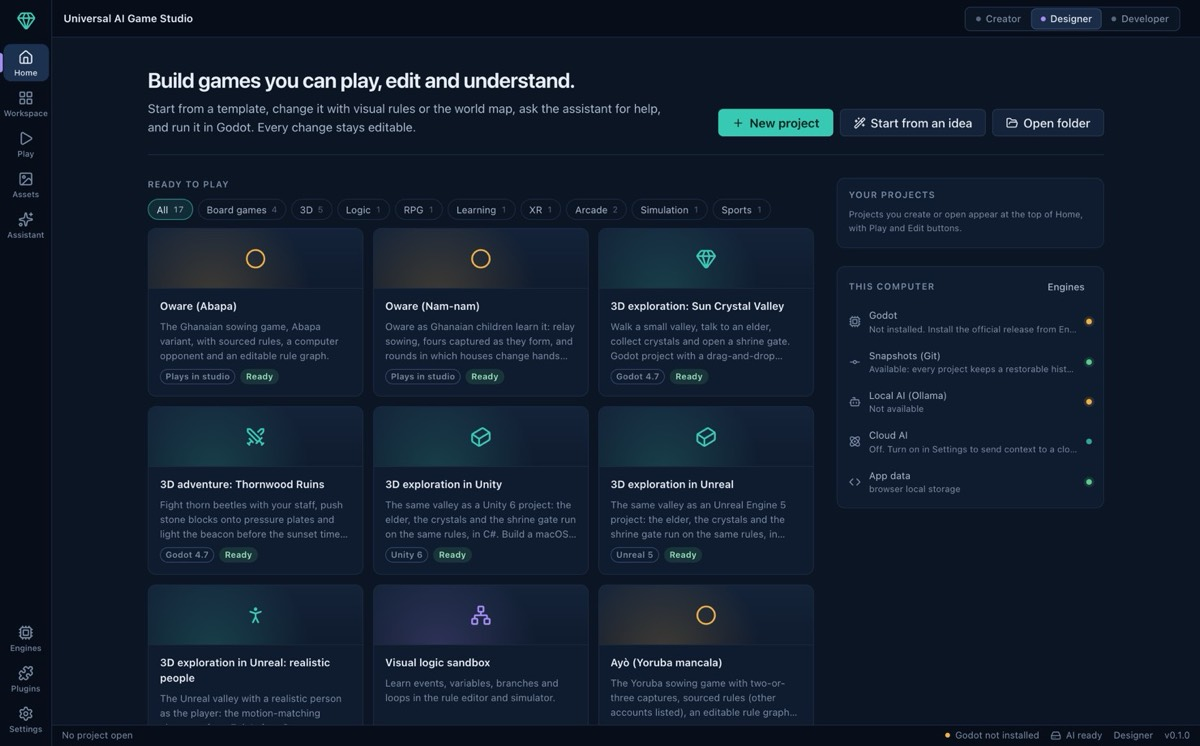
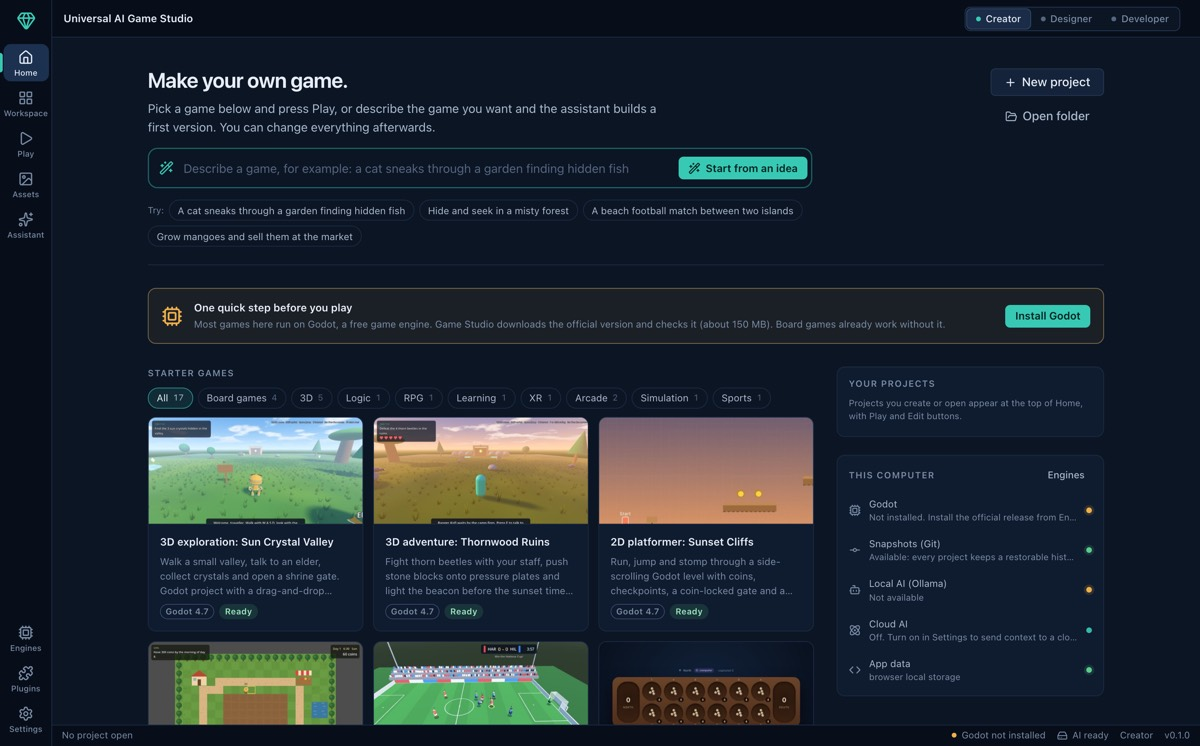
Friendlier first run: idea box, picture cards, setup step, first steps card
- Home: "Make your own game." with an idea box and example ideas that open
  Start from an idea already filled in; starter games show a picture of the
  game and lead with the 3D, platformer, farm and football games; Unity,
  Unreal and C++ templates are listed apart; a setup card offers Install Godot
  when it is missing. Recent projects show their game's picture.
- New users start in Creator mode.
- Workspace: a First steps card (Play now, how to change something, the
  Assistant) until Got it; the outline hides add-ons' own documents and calls
  the project's README "About this game".
- UI tests cover the first run and the first steps card; tests that use the
  Designer's simulator switch to Designer.
- User guide: the new Home and first steps.

diff --git a/apps/desktop/src/views/home/HomeView.tsx b/apps/desktop/src/views/home/HomeView.tsx
@@ -5,6 +5,13 @@ import { useApp } from "../../state/app";
 import { useProject } from "../../state/project";
 import { godotInstall, useEnv } from "../../state/env";
 import { ENGINE_LABEL } from "./labels";
+import pictureExploration from "../../assets/templates/exploration-3d.jpg";
+import pictureAdventure from "../../assets/templates/adventure-3d.jpg";
+import picturePlatformer from "../../assets/templates/platformer-2d.jpg";
+import pictureFarm from "../../assets/templates/farm-sim.jpg";
+import pictureFootball from "../../assets/templates/football.jpg";
+import pictureUnrealRealistic from "../../assets/templates/exploration-unreal-realistic.jpg";
+import pictureOware from "../../assets/templates/oware.jpg";
 import { Button, IconButton, formatWhen } from "../../components/ui";
 import { AtomIcon, BirdIcon, CloseIcon, CodeIcon, CubeIcon, DiceIcon, EditIcon, EnginesIcon, GameIcon, GemIcon, GraphIcon, LessonIcon, OpenIcon, PlayIcon, PlusIcon, SwordsIcon, XrIcon, CircleIcon, CommitIcon, BotIcon, WandIcon, TrophyIcon, SproutIcon, PersonIcon } from "../../components/icons";
 
@@ -31,6 +38,27 @@ const TEMPLATE_ICON: Partial<Record<string, ReactNode>> = {
   "creature-collection": <BirdIcon />,
 };
 const iconFor = (id: string, category: Category): ReactNode => TEMPLATE_ICON[id] ?? CATEGORY_ICON[category];
+/** Pictures of the games themselves (assets/templates), so a card shows what you will play. */
+const PICTURE: Partial<Record<string, string>> = {
+  "exploration-3d": pictureExploration,
+  "adventure-3d": pictureAdventure,
+  "platformer-2d": picturePlatformer,
+  "farm-sim": pictureFarm,
+  football: pictureFootball,
+  "exploration-unreal-realistic": pictureUnrealRealistic,
+  "oware-abapa": pictureOware,
+  "oware-namnam": pictureOware,
+  ayo: pictureOware,
+};
+/** Engines a beginner needs nothing extra for: these are the starter games. Unity and Unreal templates are listed apart. */
+const EXPERT_ENGINES = new Set<TemplateInfo["engine"]>(["unity", "unreal", "cpp-sfml"]);
+/** Ideas to try, filled into the idea box with one click. */
+const IDEA_EXAMPLES = [
+  "A cat sneaks through a garden finding hidden fish",
+  "Hide and seek in a misty forest",
+  "A beach football match between two islands",
+  "Grow mangoes and sell them at the market",
+];
 /** What each kind of template is called in the gallery's filter. */
 const CATEGORY_LABEL: Record<Category, string> = {
   traditional: "Board games",
@@ -69,8 +97,8 @@ function TemplateCard({ t }: { t: TemplateInfo }) {
       onClick={() => openDialog({ kind: "new-project", templateId: t.id })}
       aria-label={`${t.title}${planned ? " (planned)" : ""}`}
     >
-      <div className="template-card__art" style={{ ["--hue" as string]: CATEGORY_HUE[t.category] }}>
-        {iconFor(t.id, t.category)}
+      <div className={`template-card__art ${PICTURE[t.id] ? "template-card__art--picture" : ""}`} style={{ ["--hue" as string]: CATEGORY_HUE[t.category] }}>
+        {PICTURE[t.id] ? <img src={PICTURE[t.id]} alt="" loading="lazy" /> : iconFor(t.id, t.category)}
       </div>
       <div className="template-card__body">
         <div className="row" style={{ gap: 6 }}>
@@ -94,7 +122,7 @@ function ProjectCard({ r, isOpen, onPlay, onEdit, onForget }: { r: RecentProject
   const missing = !r.exists;
   return (
     <div className={`project-card card ${isOpen ? "project-card--open" : ""} ${missing ? "project-card--missing" : ""}`} data-testid="project-card">
-      <div className="project-card__art" style={{ ["--hue" as string]: CATEGORY_HUE[category] }}>{iconFor(r.template, category)}</div>
+      <div className={`project-card__art ${PICTURE[r.template] ? "project-card__art--picture" : ""}`} style={{ ["--hue" as string]: CATEGORY_HUE[category] }}>{PICTURE[r.template] ? <img src={PICTURE[r.template]} alt="" loading="lazy" /> : iconFor(r.template, category)}</div>
       <div className="project-card__body">
         <div className="project-card__head">
           <span className="project-card__title truncate" data-tip={r.path}>{r.title}</span>
@@ -135,6 +163,7 @@ export function HomeView() {
   const open = useProject((s) => s.open);
   const openRoot = useProject((s) => s.root);
   const [kind, setKind] = useState<Category | "all">("all");
+  const [ideaText, setIdeaText] = useState("");
   const [allRecents, setAllRecents] = useState(false);
   const engines = useEnv((s) => s.engines);
   const providers = useEnv((s) => s.providers);
@@ -147,7 +176,11 @@ export function HomeView() {
   // The kinds present, in the order they first appear, for the gallery's filter.
   const kinds = useMemo(() => [...new Set(buildable.map((t) => t.category))], [buildable]);
   const shownKind = (t: TemplateInfo) => kind === "all" || t.category === kind;
-  const ready = TEMPLATES.filter((t) => t.status === "ready" && shownKind(t));
+  // Games you walk, jump and kick around in first (they have pictures), then the board games and the logic sandbox.
+  const firstShown = ["exploration-3d", "adventure-3d", "platformer-2d", "farm-sim", "football"];
+  const rank = (t: TemplateInfo) => (firstShown.includes(t.id) ? firstShown.indexOf(t.id) : firstShown.length);
+  const ready = TEMPLATES.filter((t) => t.status === "ready" && shownKind(t) && !EXPERT_ENGINES.has(t.engine)).sort((a, b) => rank(a) - rank(b));
+  const expert = TEMPLATES.filter((t) => t.status === "ready" && shownKind(t) && EXPERT_ENGINES.has(t.engine));
   const foundations = TEMPLATES.filter((t) => t.status === "foundation" && shownKind(t));
   const planned = TEMPLATES.filter((t) => t.status === "planned");
   const godot = godotInstall(engines);
@@ -175,22 +208,43 @@ export function HomeView() {
       <div className="view__body view__body--padded">
         <div className="page home">
           <section className="home__hero">
-            <div>
-              <h1 className="home__title">Build games you can play, edit and understand.</h1>
-              <p className="home__lead">Start from a template, change it with visual rules or the world map, ask the assistant for help, and run it in Godot. Every change stays editable.</p>
+            <div className="stack" style={{ gap: 14, flex: 1, minWidth: 0 }}>
+              <div>
+                <h1 className="home__title">Make your own game.</h1>
+                <p className="home__lead">Pick a game below and press Play, or describe the game you want and the assistant builds a first version. You can change everything afterwards.</p>
+              </div>
+              <form
+                className="idea-box"
+                onSubmit={(e) => {
+                  e.preventDefault();
+                  openDialog({ kind: "idea", idea: ideaText.trim() });
+                }}
+              >
+                <WandIcon />
+                <input className="idea-box__input" aria-label="Describe a game to make" placeholder="Describe a game, for example: a cat sneaks through a garden finding hidden fish" value={ideaText} maxLength={2000} onChange={(e) => setIdeaText(e.target.value)} />
+                <Button type="submit" variant="primary" icon={<WandIcon />} tip="The assistant picks a starter game and plans changes; nothing is made until you approve">Start from an idea</Button>
+              </form>
+              <div className="row row--wrap" style={{ gap: 6 }}>
+                <span className="xsmall muted">Try:</span>
+                {IDEA_EXAMPLES.map((x) => <button key={x} type="button" className="chip" onClick={() => setIdeaText(x)}>{x}</button>)}
+              </div>
             </div>
-            <div className="row" style={{ gap: 8 }}>
-              <Button variant="primary" size="large" icon={<PlusIcon />} onClick={() => openDialog({ kind: "new-project" })}>
-                New project
-              </Button>
-              <Button size="large" icon={<WandIcon />} onClick={() => openDialog({ kind: "idea" })} tip="Describe a game or paste a link; the assistant plans an original first version from a template">
-                Start from an idea
-              </Button>
-              <Button size="large" icon={<OpenIcon />} onClick={() => void openFolder()}>
-                Open folder
-              </Button>
+            <div className="stack" style={{ gap: 8, flex: "none" }}>
+              <Button size="large" icon={<PlusIcon />} onClick={() => openDialog({ kind: "new-project" })}>New project</Button>
+              <Button size="large" variant="ghost" icon={<OpenIcon />} onClick={() => void openFolder()}>Open folder</Button>
             </div>
           </section>
+
+          {engines && !godot && (
+            <section className="setup-card card" aria-label="Set up">
+              <EnginesIcon />
+              <div style={{ flex: 1, minWidth: 0 }}>
+                <div className="setup-card__title">One quick step before you play</div>
+                <div className="small muted">Most games here run on Godot, a free game engine. Game Studio downloads the official version and checks it (about 150 MB). Board games already work without it.</div>
+              </div>
+              <Button variant="primary" onClick={() => setRoute("engines")}>Install Godot</Button>
+            </section>
+          )}
 
           {recents !== null && recents.length > 0 && (
             <section className="stack" aria-label="Continue" data-testid="home-continue">
@@ -222,7 +276,7 @@ export function HomeView() {
             <div className="stack" style={{ gap: 26 }}>
               <section className="stack">
                 <div className="row row--wrap" style={{ justifyContent: "space-between", gap: 10 }}>
-                  <div className="section-label">{recents && recents.length > 0 ? "Start a new game" : "Ready to play"}</div>
+                  <div className="section-label">{recents && recents.length > 0 ? "Start a new game" : "Starter games"}</div>
                   <div className="chips" role="group" aria-label="Kinds of game">
                     <button type="button" className="chip" aria-pressed={kind === "all"} onClick={() => setKind("all")}>All <span className="chip__count">{buildable.length}</span></button>
                     {kinds.map((k) => (
@@ -234,6 +288,13 @@ export function HomeView() {
                 </div>
                 {ready.length > 0 ? <div className="template-grid">{ready.map((t) => <TemplateCard key={t.id} t={t} />)}</div> : <div className="xsmall muted">No ready templates of this kind yet; see the foundations below.</div>}
               </section>
+              {expert.length > 0 && <section className="stack">
+                <div className="row">
+                  <div className="section-label">For Unity and Unreal</div>
+                  <span className="xsmall muted">The same valley in other engines. They need Unity or Unreal installed and take longer to build.</span>
+                </div>
+                <div className="template-grid">{expert.map((t) => <TemplateCard key={t.id} t={t} />)}</div>
+              </section>}
               {foundations.length > 0 && <section className="stack">
                 <div className="row">
                   <div className="section-label">Foundations</div>

diff --git a/apps/desktop/src/views/workspace/Workspace.tsx b/apps/desktop/src/views/workspace/Workspace.tsx
@@ -15,8 +15,8 @@ import { useApp } from "../../state/app";
 import { useProject, type Doc } from "../../state/project";
 import { useFocus } from "../../state/focus";
 import { useRuns } from "../../state/runs";
-import { Empty, IconButton, Segmented, formatWhen } from "../../components/ui";
-import { BookIcon, BoxIcon, ChevronDownIcon, ChevronRightIcon, CloseIcon, CodeFileIcon, ErrorIcon, FileIcon, FolderIcon, GraphIcon, InfoIcon, JsonFileIcon, LessonIcon, MapIcon, OkIcon, SettingsIcon, SlidersIcon, SwordsIcon, TextFileIcon, TrashIcon, TrophyIcon, SproutIcon, WarnIcon, AssetsIcon } from "../../components/icons";
+import { Button, Empty, IconButton, Segmented, formatWhen } from "../../components/ui";
+import { AssistantIcon, BookIcon, BoxIcon, PlayIcon, ChevronDownIcon, ChevronRightIcon, CloseIcon, CodeFileIcon, ErrorIcon, FileIcon, FolderIcon, GraphIcon, InfoIcon, JsonFileIcon, LessonIcon, MapIcon, OkIcon, SettingsIcon, SlidersIcon, SwordsIcon, TextFileIcon, TrashIcon, TrophyIcon, SproutIcon, WarnIcon, AssetsIcon } from "../../components/icons";
 import { RuleEditor } from "../rules/RuleEditor";
 import { WorldEditor } from "../world/WorldEditor";
 import { LevelEditor } from "../level/LevelEditor";
@@ -87,7 +87,8 @@ function Outline() {
       : unrealDir
         ? files.filter((f) => f.kind === "file" && f.path.startsWith(`${unrealDir}/Source/`) && /\.(h|cpp)$/.test(f.path))
         : [];
-  const docsMd = files.filter((f) => f.kind === "file" && f.path.endsWith(".md"));
+  // Documents that came with add-ons (godot/addons/...) are someone else's notes, not this game's.
+  const docsMd = files.filter((f) => f.kind === "file" && f.path.endsWith(".md") && !f.path.includes("/addons/") && (mode !== "creator" || !f.path.includes("/")));
   return (
     <div className="panel__body">
       {group("Project", [item(MANIFEST_FILE, "Project settings", manifest.title, <SettingsIcon />)])}
@@ -98,7 +99,7 @@ function Outline() {
       ])}
       {mode !== "creator" && group("Godot scenes", scenes.map((f) => item(f.path, f.path.split("/").pop()!, f.path, <BoxIcon />)))}
       {mode === "developer" && group("Scripts", scripts.map((f) => item(f.path, f.path.split("/").pop()!, f.path, <CodeFileIcon />)))}
-      {group("Documents", docsMd.map((f) => item(f.path, f.path.split("/").pop()!, f.path, <BookIcon />)))}
+      {group("Documents", docsMd.map((f) => item(f.path, f.path === "README.md" ? "About this game" : f.path.split("/").pop()!, f.path, <BookIcon />)))}
     </div>
   );
 }
@@ -299,6 +300,7 @@ export function WorkspaceView() {
                     </div>
                   ))}
                 </div>
+                <Coach />
                 <div className="editor-host">{doc ? <EditorFor key={doc.path} doc={doc} /> : <Empty icon={<FileIcon />} title="Nothing open">Choose an item in the outline to open it.</Empty>}</div>
               </div>
             </Panel>
@@ -309,6 +311,34 @@ export function WorkspaceView() {
           </Group>
         </Panel>
       </Group>
+    </div>
+  );
+}
+
+/**
+ * First steps for someone new: shown in the Workspace until dismissed (setting "ui.coach.done"), with buttons that
+ * do each step.
+ */
+function Coach() {
+  const done = useApp((s) => s.settings["ui.coach.done"] === true);
+  const setSetting = useApp((s) => s.setSetting);
+  const setRoute = useApp((s) => s.setRoute);
+  const manifest = useProject((s) => s.manifest);
+  if (done || !manifest) return null;
+  const board = manifest.engine.id === "studio-board";
+  const change = board ? "open the rules and change a setting, such as how many seeds each pit starts with" : "drag something from Add objects onto the map, or change a setting on the right";
+  return (
+    <div className="coach" role="note" aria-label="First steps">
+      <ol className="coach__steps">
+        <li><strong>Try it:</strong> press <strong>Play</strong> to play your game.</li>
+        <li><strong>Change it:</strong> {change}.</li>
+        <li><strong>Ask for help:</strong> the <strong>Assistant</strong> makes changes for you, for example "make the player a little faster".</li>
+      </ol>
+      <div className="row" style={{ gap: 6, flex: "none" }}>
+        <Button size="small" variant="primary" icon={<PlayIcon />} onClick={() => setRoute("play")}>Play now</Button>
+        <Button size="small" icon={<AssistantIcon />} onClick={() => setRoute("assistant")}>Assistant</Button>
+        <Button size="small" variant="ghost" onClick={() => void setSetting("ui.coach.done", true)}>Got it</Button>
+      </div>
     </div>
   );
 }

diff --git a/apps/desktop/src/styles/views.css b/apps/desktop/src/styles/views.css
@@ -1,6 +1,6 @@
 /* ---- Home ------------------------------------------------------------------------------------ */
 .home { display: flex; flex-direction: column; gap: 28px; padding-top: 10px; }
-.home__hero { display: flex; align-items: flex-end; justify-content: space-between; gap: 24px; padding: 8px 0 22px; border-bottom: 1px solid var(--line); }
+.home__hero { display: flex; align-items: flex-start; justify-content: space-between; gap: 24px; padding: 8px 0 22px; border-bottom: 1px solid var(--line); }
 .home__title { font-size: var(--text-xxl); font-weight: 650; letter-spacing: -0.025em; line-height: 1.15; max-width: 640px; }
 .home__lead { color: var(--text-2); margin-top: 8px; max-width: 640px; line-height: 1.55; font-size: var(--text-l); }
 .home__grid { display: grid; grid-template-columns: minmax(0, 1fr) 330px; gap: 28px; align-items: start; }
@@ -37,6 +37,20 @@
 .template-pick__option .badge { flex: none; }
 .template-card__art { height: 74px; display: grid; place-items: center; color: var(--hue); background: radial-gradient(circle at 30% 120%, color-mix(in srgb, var(--hue) 22%, transparent), transparent 60%), linear-gradient(180deg, var(--bg-3), var(--bg-2)); border-bottom: 1px solid var(--line); }
 .template-card__art svg { width: 26px; height: 26px; }
+.template-card__art--picture { height: 132px; padding: 0; overflow: hidden; }
+.template-card__art--picture img { width: 100%; height: 100%; object-fit: cover; display: block; transition: transform 240ms var(--ease); }
+.template-card:hover .template-card__art--picture img { transform: scale(1.04); }
+.project-card__art--picture { width: 110px; padding: 0; overflow: hidden; }
+.project-card__art--picture img { width: 100%; height: 100%; object-fit: cover; display: block; }
+/* Home: describe a game right on the first screen. */
+.idea-box { display: flex; align-items: center; gap: 10px; max-width: 820px; padding: 6px 6px 6px 14px; border-radius: 12px; background: var(--bg-1); box-shadow: inset 0 0 0 1.5px var(--accent-line); }
+.idea-box > svg { width: 18px; height: 18px; color: var(--accent); flex: none; }
+.idea-box__input { flex: 1; min-width: 0; height: 38px; border: 0; background: transparent; color: var(--text-1); font-size: var(--text-l); outline: none; }
+.idea-box__input::placeholder { color: var(--text-4); }
+.idea-box:focus-within { box-shadow: inset 0 0 0 2px var(--accent); }
+.setup-card { display: flex; align-items: center; gap: 14px; padding: 14px 16px; border-color: color-mix(in srgb, var(--amber) 45%, var(--line)); background: color-mix(in srgb, var(--amber) 7%, var(--bg-1)); }
+.setup-card > svg { width: 26px; height: 26px; color: var(--amber); flex: none; }
+.setup-card__title { font-weight: 600; font-size: var(--text-m); margin-bottom: 2px; }
 .template-card__body { display: flex; flex-direction: column; gap: 7px; padding: 12px 14px 14px; flex: 1; }
 .template-card__title { font-weight: 600; font-size: var(--text-m); }
 .template-card__summary { color: var(--text-3); font-size: var(--text-s); line-height: 1.5; display: -webkit-box; -webkit-line-clamp: 3; -webkit-box-orient: vertical; overflow: hidden; }
@@ -353,3 +367,8 @@ button.problem-row:hover { background: var(--bg-hover); }
 .crop-growth td:nth-child(2), .crop-growth th:nth-child(2) { width: 90px; }
 .crop-growth td:nth-child(3), .crop-growth th:nth-child(3) { width: 150px; }
 .crop-swatch { width: 22px; height: 26px; padding: 0; border: 0; background: none; flex: none; }
+
+/* Workspace: first steps for someone new, until they dismiss it. */
+.coach { display: flex; align-items: center; gap: 16px; padding: 10px 14px; border-bottom: 1px solid var(--line); background: color-mix(in srgb, var(--accent) 8%, var(--bg-1)); }
+.coach__steps { flex: 1; min-width: 0; margin: 0; padding-left: 18px; display: flex; flex-direction: column; gap: 3px; font-size: var(--text-s); color: var(--text-2); line-height: 1.45; }
+.coach__steps strong { color: var(--text-1); font-weight: 600; }

diff --git a/tests/e2e/studio.spec.ts b/tests/e2e/studio.spec.ts
@@ -36,12 +36,38 @@ async function createProject(page: Page, template: string) {
   await pickTemplate(page, template);
   await page.getByRole("button", { name: "Create project" }).click();
   await expect(page.getByRole("dialog")).toHaveCount(0);
+  // New users start in Creator; these tests use the Designer's graph and simulator.
+  await setMode(page, "Designer");
 }
 
 async function seedTotal(page: Page, board = "Oware board"): Promise<number> {
   const labels = await page.getByRole("group", { name: board }).locator("[aria-label]").evaluateAll((els) => els.map((e) => e.getAttribute("aria-label") ?? ""));
   return labels.reduce((sum, l) => sum + Number(/(\d+) seeds|captured (\d+)/.exec(l)?.slice(1).find(Boolean) ?? 0), 0);
 }
+
+test("first run: Creator mode, an idea box with examples, picture cards and the Godot setup step", async ({ page }) => {
+  await expect(page.getByRole("group", { name: "Work mode" }).getByRole("button", { name: "Creator" })).toHaveAttribute("aria-pressed", "true");
+  await expect(page.getByRole("button", { name: /^3D exploration: Sun Crystal Valley/ }).locator("img")).toHaveCount(1);
+  await page.getByRole("button", { name: "Hide and seek in a misty forest" }).click();
+  await expect(page.getByLabel("Describe a game to make")).toHaveValue("Hide and seek in a misty forest");
+  await page.getByRole("button", { name: "Start from an idea" }).click();
+  await expect(page.getByRole("dialog").getByLabel("Describe your game")).toHaveValue("Hide and seek in a misty forest");
+  await page.getByRole("dialog").getByRole("button", { name: "Close" }).click();
+  await expect(page.getByRole("button", { name: "Install Godot" })).toBeVisible();
+});
+
+test("first steps: the Workspace shows what to do next until dismissed", async ({ page }) => {
+  await page.getByRole("button", { name: "New project" }).first().click();
+  await pickTemplate(page, "platformer-2d");
+  await page.getByRole("button", { name: "Create project" }).click();
+  const coach = page.getByRole("note", { name: "First steps" });
+  await expect(coach).toContainText("press Play to play your game");
+  await coach.getByRole("button", { name: "Got it" }).click();
+  await expect(coach).toHaveCount(0);
+  await nav(page, "Home");
+  await nav(page, "Workspace: rules, world and files");
+  await expect(page.getByRole("note", { name: "First steps" })).toHaveCount(0);
+});
 
 test("home lists ready, foundation and planned templates honestly", async ({ page }) => {
   await expect(page.getByRole("button", { name: "Oware (Abapa)" })).toBeEnabled();

diff --git a/apps/desktop/src/state/app.ts b/apps/desktop/src/state/app.ts
@@ -13,7 +13,7 @@ export interface Toast {
 
 export type Dialog =
   | { kind: "new-project"; templateId?: string }
-  | { kind: "idea" }
+  | { kind: "idea"; idea?: string }
   | { kind: "snapshot" }
   | { kind: "confirm"; title: string; body: string; details?: string[]; confirmLabel: string; danger?: boolean; onConfirm: () => void | Promise<void>; onCancel?: () => void };
 
@@ -40,13 +40,13 @@ export const useApp = create<AppStore>((set, get) => ({
   info: null,
   settings: {},
   route: "home",
-  mode: "designer",
+  mode: "creator",
   toasts: [],
   dialog: null,
   boot: async () => {
     const [info, settings] = await Promise.all([backend.appInfo(), backend.settingsGet()]);
     const saved = settings["ui.mode"];
-    set({ info, settings, mode: saved === "creator" || saved === "designer" || saved === "developer" ? saved : "designer" });
+    set({ info, settings, mode: saved === "creator" || saved === "designer" || saved === "developer" ? saved : "creator" });
   },
   setRoute: (route) => set({ route }),
   setMode: (mode) => {

diff --git a/apps/desktop/src/views/idea/IdeaDialog.tsx b/apps/desktop/src/views/idea/IdeaDialog.tsx
@@ -35,7 +35,8 @@ export function IdeaDialog() {
   const usable = useMemo(() => (providers ?? []).filter((p) => p.allowed && p.available), [providers]);
   const [providerId, setProviderId] = useState("");
   const [model, setModel] = useState("");
-  const [idea, setIdea] = useState("");
+  const startIdea = useApp((s) => (s.dialog?.kind === "idea" ? s.dialog.idea : undefined));
+  const [idea, setIdea] = useState(startIdea ?? "");
   const [link, setLink] = useState("");
   const [parent, setParent] = useState(info?.defaultProjectsDir ?? "");
   const [stage, setStage] = useState<Stage>("idle");

diff --git a/docs/user-guide/README.md b/docs/user-guide/README.md
@@ -47,9 +47,13 @@ you clicking to do it.
 
 ![Home](images/01-home.jpg)
 
+New projects open with a **First steps** card at the top of the Workspace: **Play now**, how to change something, and
+the **Assistant**. **Got it** hides it for good.
+
 The bar on the left switches between the main views:
 
-- **Home**: your projects, the templates, and what is installed on this computer.
+- **Home**: a box where you describe a game to make, your projects, the starter games (with a picture of each), and
+  what is installed on this computer. If Godot is missing, Home shows an **Install Godot** button first.
 - **Workspace**: the project's files, rules, world map and editors.
 - **Play**: runs the game, exports it and shows its output.
 - **Assets**: your imported files and the free library.
@@ -57,7 +61,7 @@ The bar on the left switches between the main views:
 - **Engines**, **Plugins** and **Settings** sit at the bottom.
 
 At the top right, **Creator**, **Designer** and **Developer** change how much the **Workspace** shows; the other views
-look the same in every mode. A note says what changed each time you switch.
+look the same in every mode. Game Studio starts in Creator, the simplest. A note says what changed each time you switch.
 
 | | Creator | Designer | Developer |
 |---|---|---|---|
@@ -77,7 +81,7 @@ valid version is kept. All three modes edit the same project, so you can switch 
 
 ![New project](images/02-new-project.jpg)
 
-On Home, click **New project**, pick a template, give it a title and a folder, then **Create project**. Templates marked
+On Home, click a starter game's picture (or **New project**), pick a template, give it a title and a folder, then **Create project**. Templates marked
 *Plays in studio* run inside Game Studio. The others show the engine they need. If that engine is missing you can still
 create and edit the project, and the dialog links to the Engines view.
 
@@ -88,7 +92,7 @@ listed in the app.
 
 ![Start from an idea](images/03-start-from-idea.jpg)
 
-**Start from an idea** takes a sentence or two about your game, and optionally a link to a page about it. The assistant
+Type your idea in the box at the top of Home (or click one of the **Try** examples) and press **Start from an idea**. It takes a sentence or two about your game, and optionally a link to a page about it. The assistant
 picks the closest template, writes a short design brief and lists every change it would make to the starting level.
 Nothing is created until you click **Create this game**. If you name an existing game, the plan keeps its kind of play
 but uses an original name, layout and look.
